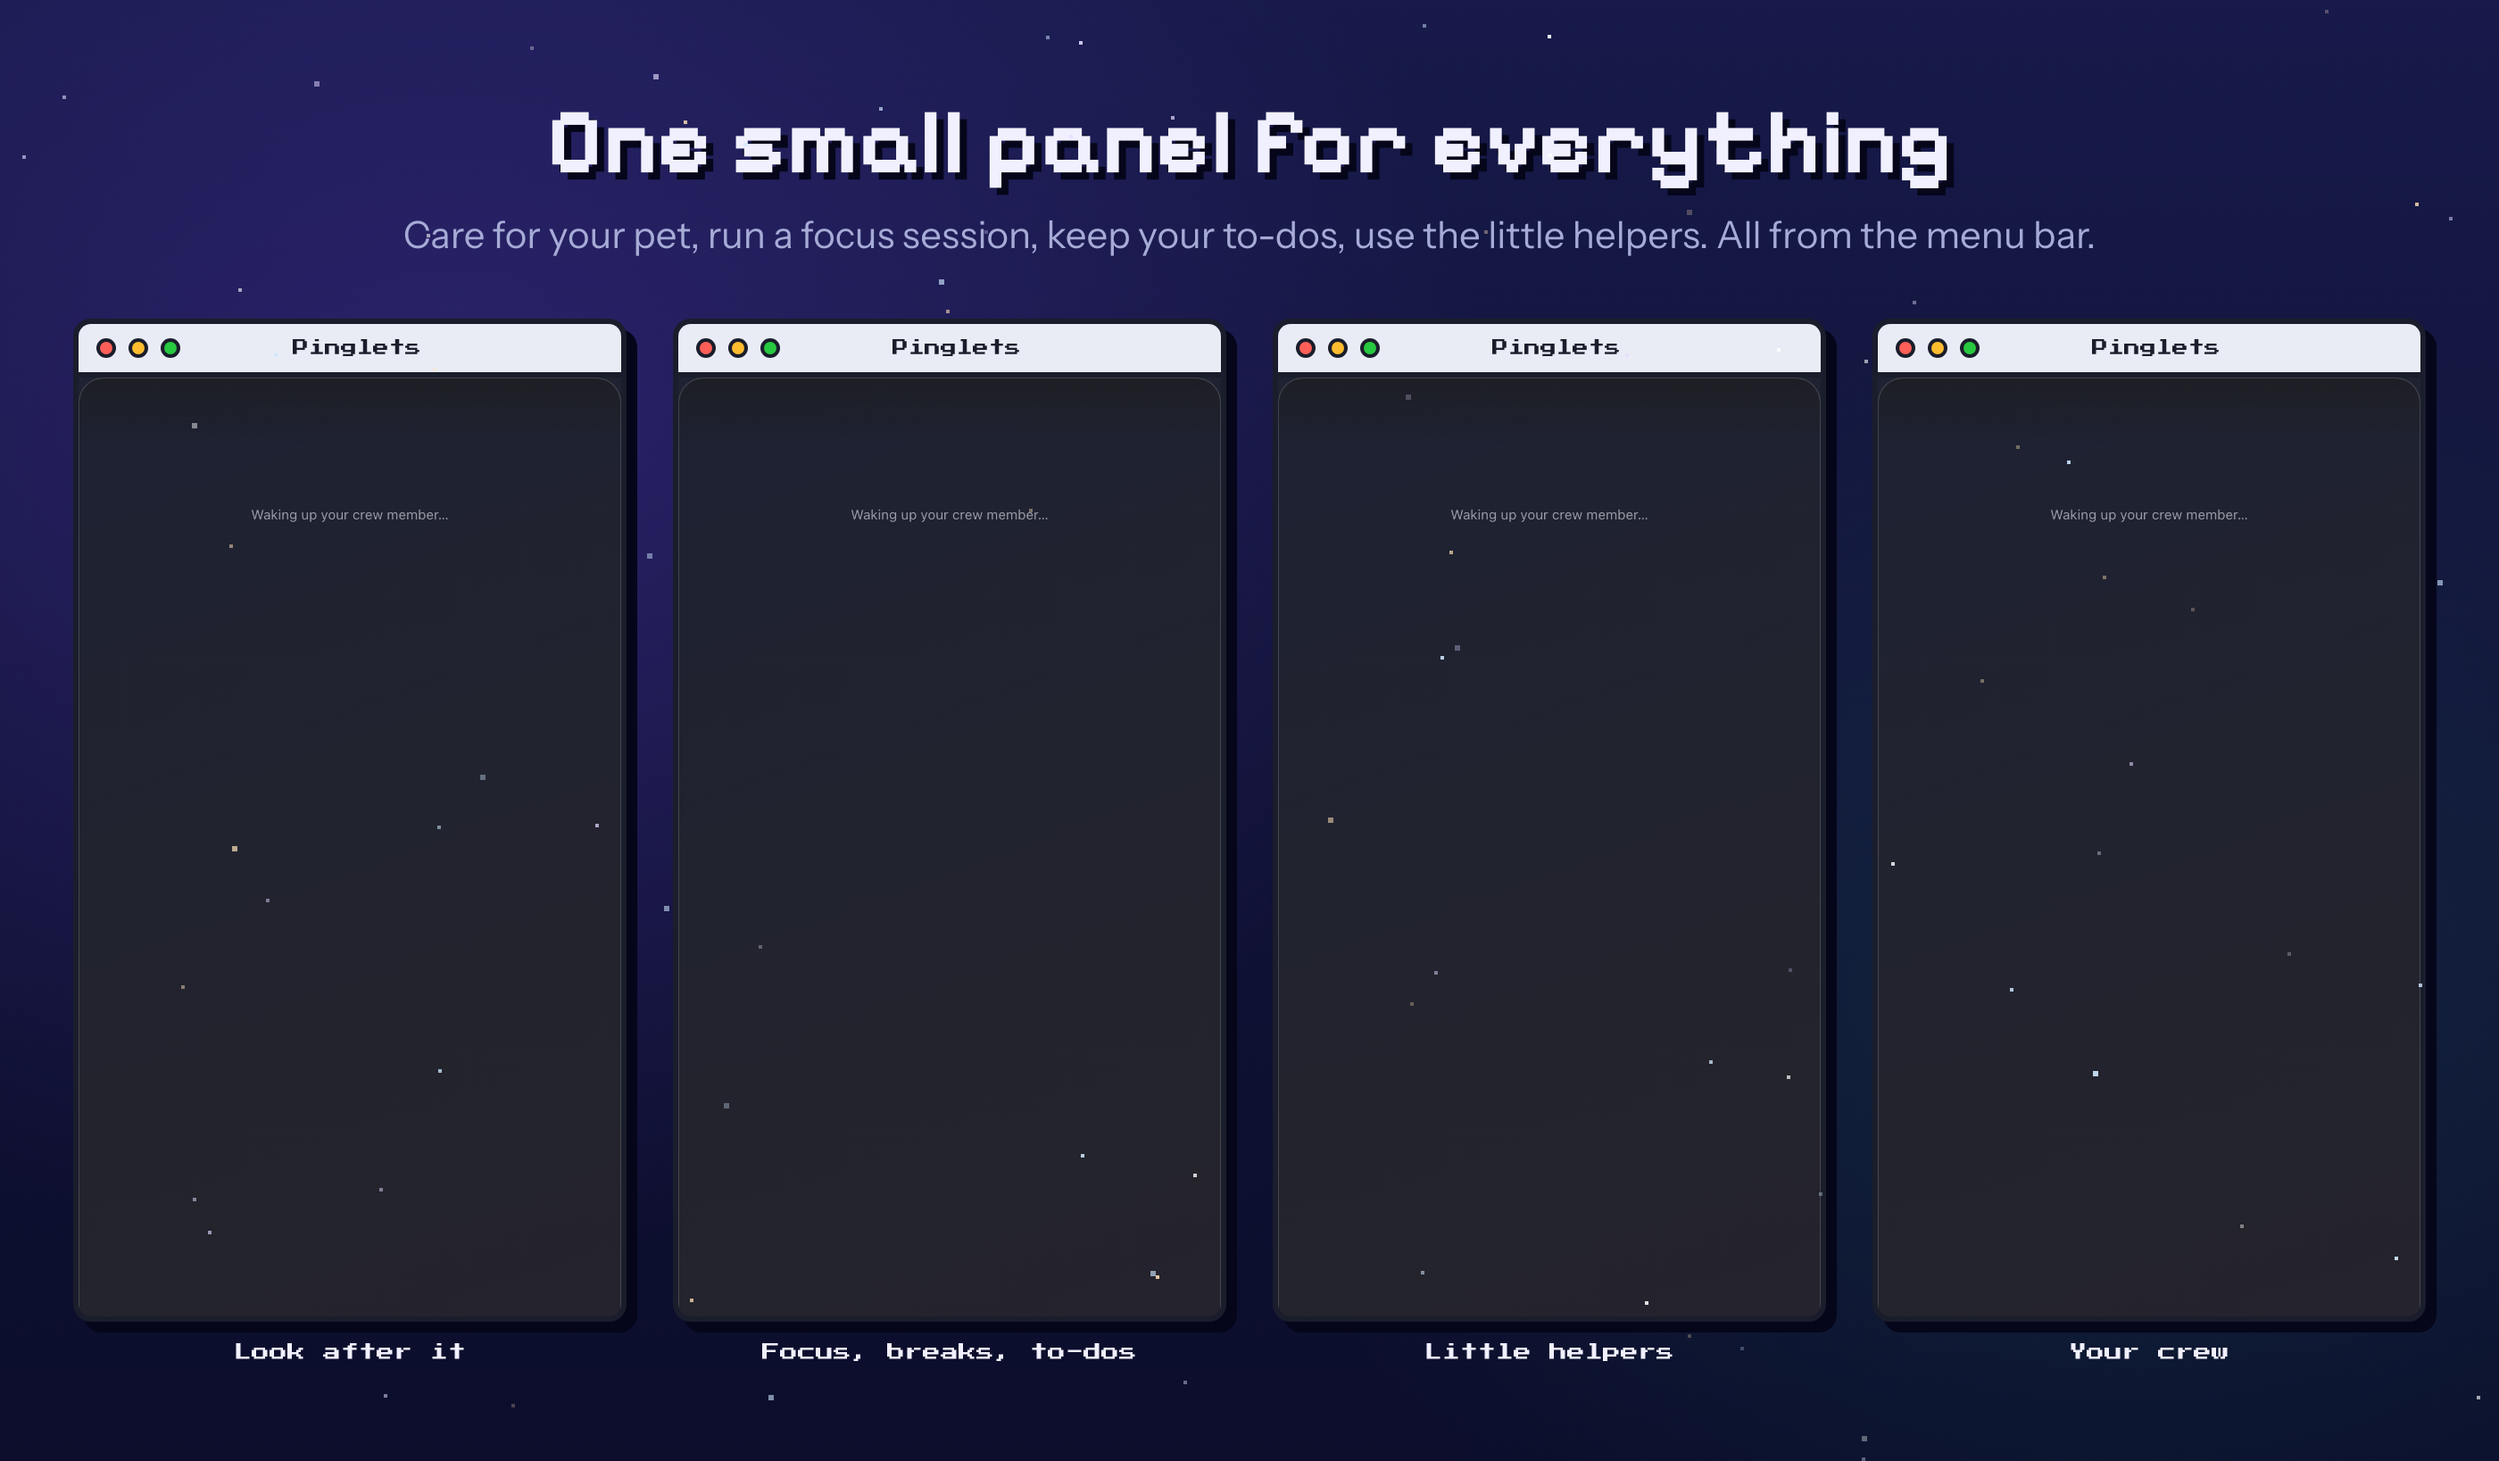
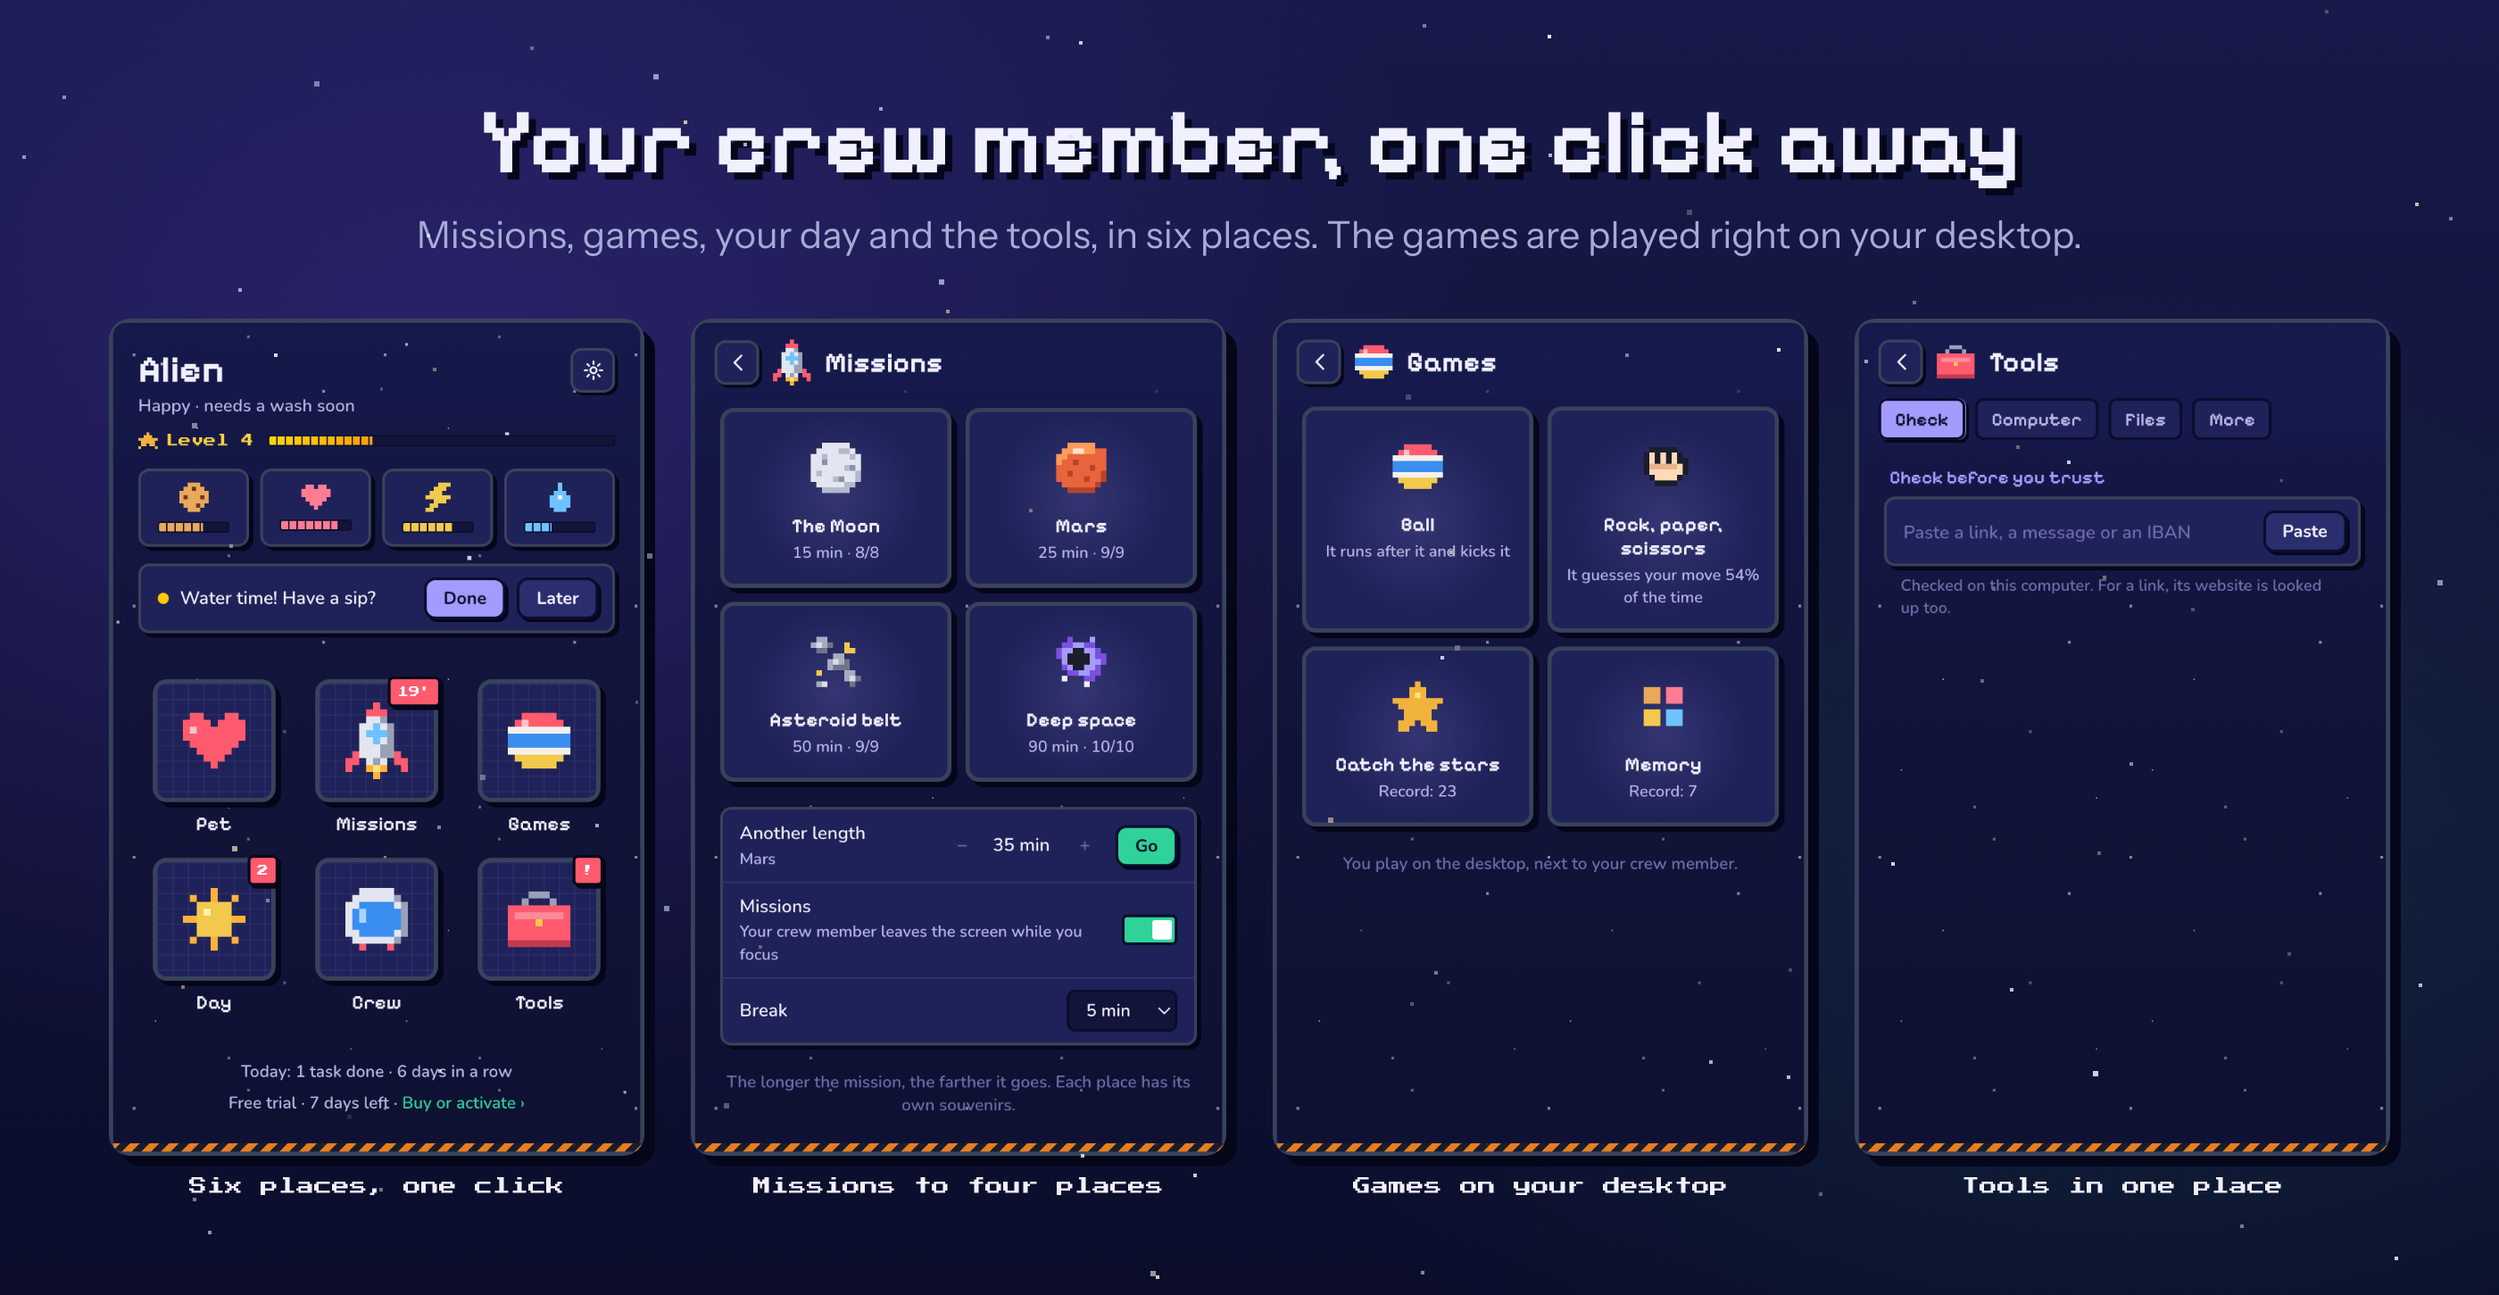
Pinglets 1.1: missions to four places, games on the desktop, tools in one place, the new pop-up

diff --git a/README.md b/README.md
@@ -12,8 +12,8 @@
 
 <p align="center">
   <b>A tiny pixel crew member that lives on your Dock or taskbar.</b><br>
-  It reminds you to take breaks, keeps your to-dos and fixes small annoying things.<br>
-  Give it a snack now and then.
+  It flies on missions while you focus, plays with you right on your desktop and learns your habits.<br>
+  It reminds you to take breaks, keeps your to-dos and fixes small annoying things. Give it a snack now and then.
 </p>
 
 <p align="center">
@@ -26,15 +26,15 @@
 
 ---
 
-## A small app, not a game
+## A small app, and a little game
 
 Pinglets sits at the bottom of your screen and walks along the Dock (or the taskbar) while you work. Click it, drag it, throw
-it, pat it. It is there to help you with the day, and it needs a bit of help from you too.
+it, pat it, play with it. It is there to help you with the day, and it needs a bit of help from you too.
 
 <table>
   <tr>
-    <td align="center" width="33%"><img src="assets/care.gif" alt="A crew member cheering with hearts" width="100%"><br><b>It needs you</b><br>Food, mood, energy and a wash now and then. Leave it alone too long and it gets sad. It never dies.</td>
-    <td align="center" width="33%"><img src="assets/fight.gif" alt="A crew member fighting a purple glitch" width="100%"><br><b>It keeps you on track</b><br>Skip a break or forget a reminder and a glitch walks in. Do the task and the glitch is gone.</td>
+    <td align="center" width="33%"><img src="assets/care.gif" alt="A crew member cheering with hearts" width="100%"><br><b>It needs you</b><br>Food, mood, energy and a wash now and then. Snacks fall from the sky, pats happen on your desktop. It never dies, and it never makes you feel guilty.</td>
+    <td align="center" width="33%"><img src="assets/fight.gif" alt="A crew member fighting a purple glitch" width="100%"><br><b>Strict captain, if you like</b><br>Turn it on and a skipped break or a forgotten reminder brings a glitch. Do the task and the glitch is gone.</td>
     <td align="center" width="33%"><img src="assets/sleep.gif" alt="A crew member asleep" width="100%"><br><b>It rests too</b><br>Quiet at night, quiet while you focus. It saves its questions for later.</td>
   </tr>
 </table>
@@ -43,22 +43,36 @@ it, pat it. It is there to help you with the day, and it needs a bit of help fro
 
 | | |
 |---|---|
-| **Focus missions** | 25 minutes of focus, a short break, repeat. Meanwhile your crew member goes on a mission and comes back with a souvenir: 32 to collect, something new every time. |
+| **Focus missions** | The length picks the place: the Moon (15 min), Mars (25), the asteroid belt (50), deep space (90), or any length. Your crew member flies there and comes back with a souvenir: 44 to collect, each place with its own. Every fourth mission of the day, a longer break; the countdown sits in the menu bar. |
 | **Healthy breaks** | Drink water, check your posture, rest your eyes, stand up. You choose how often. |
 | **Reminders** | "Call the dentist at 15:00", "Vitamins every day at 9". Once, every day, on weekdays or every week. |
-| **To-dos** | With a due time if you like. Late ones turn into glitches. |
+| **To-dos** | With a due time if you like. With Strict captain on, late ones turn into glitches. |
 | **Today's orders** | Three small things a day, for bonus XP. Missing a day costs nothing. |
 
-### Guard
+### Play together
+
+The games are played right on your desktop, next to your crew member, not in a window.
+
+| | |
+|---|---|
+| **Ball** | Throw it: your crew member runs after it and kicks it. |
+| **Rock, paper, scissors** | First to three, in a bubble over its head. It learns your favourite moves. |
+| **Catch the stars** | 30 seconds of falling stars. Move the mouse and it runs to catch them. |
+| **Memory** | It lights a row of pads, you repeat it, one more each round. |
+| **It learns your habits** | When you start and stop, your best hour for focus, when it gets its snack, and its character grows from how you treat it. All on your computer, with a button to make it forget. |
+
+### Tools
+
+Everything useful in one place, out of the pet's way.
 
 | | |
 |---|---|
 | **Check before you trust** | Paste a link, a message or an IBAN. It spots fake banks, couriers and shops, brand-new websites, "Hi mum, this is my new number", gift-card requests and wrong IBANs. Or right-click your crew member: "Check copied text". |
-| **Computer check-up** | Backup on or off, free disk space, battery health. Once a week it tells you if something needs a look. |
+| **Computer check-up** | Firewall, disk encryption, automatic updates, screen lock, app check or antivirus, password at start-up, plus backup, free disk space and battery health. It reads them and changes nothing; "Turn on" opens the right system setting. |
 | **Alerts** | The internet drops (and comes back), a Wi-Fi with no password. During calls it steps aside and stays quiet. |
 | **Passwords** | A strong one that is easy to type, and a check whether yours appeared in stolen data, without ever sending it. |
 
-### Files
+#### Files
 
 Drop files on your crew member (or on its window) and only what fits shows up. New files are saved next to the
 originals, never over them.
@@ -91,7 +105,7 @@ originals, never over them.
 | **Countdown** | Days left to the holidays, a deadline, a birthday. It tells you every morning. |
 
 <p align="center">
-  <img src="assets/panel.png" alt="The Pinglets panel: pet, tasks, helpers and crew" width="100%">
+  <img src="assets/panel.png" alt="The Pinglets pop-up: six places, missions to four destinations, games on the desktop, tools in one place" width="100%">
 </p>
 
 <p align="center">
@@ -109,7 +123,7 @@ Italian.
 |---|---|
 | **Mac** | [Free trial for Mac](https://github.com/mekai-games/pinglets/releases/latest/download/Pinglets.dmg) · macOS 11 or later, Apple silicon or Intel |
 | **Windows (beta)** | [Free trial for Windows](https://github.com/mekai-games/pinglets/releases/latest/download/Pinglets-Setup.exe) · Windows 10 or 11, 64-bit |
-| **License** | Everything works for 7 days. Then [get your license](https://mekaigames.com/pinglets#buy) for 6,99 €, once. One key, up to 3 computers. |
+| **License** | Everything works for 7 days. Then your crew member stays (its care, breaks, to-dos, reminders and the ball keep working), and [a license](https://mekaigames.com/pinglets#buy) for 6,99 €, once, brings back missions, games, tools and the whole crew. One key, up to 3 computers. |
 
 On a Mac, open the `.dmg` and drag Pinglets into Applications. On Windows, run the setup; if Windows says it protected
 your PC, click "More info", then "Run anyway" (the Windows version is new). Pinglets lives in the menu bar or in the tray
@@ -118,7 +132,7 @@ Every version is in [Releases](../../releases).
 
 ## Privacy
 
-Your crew member, your tasks and your files stay on your computer. No account, no ads, no tracking: your license key is
+Your crew member, your tasks, your files and what it learns about your habits stay on your computer. No account, no ads, no tracking: your license key is
 checked with Lemon Squeezy, our reseller, and the link and password checks reach the internet only when you use them. Read the [privacy policy](https://mekaigames.com/pinglets/privacy) and the
 [terms](https://mekaigames.com/pinglets/terms).
 
@@ -141,8 +155,15 @@ or use the menu bar on a Mac and the tray on Windows.
 <details>
 <summary><b>What happens if I ignore it?</b></summary>
 <br>
-It gets hungry, sleepy and a bit sad, and glitches show up for the tasks you skip. It never dies: a snack, a
-pat and a done task bring it back.
+It gets hungry and sleepy, but never below "fine". Turn on Strict captain for the real thing: needs drop all the
+way and glitches show up for the tasks you skip. It never dies either way.
+</details>
+
+<details>
+<summary><b>What happens after the free week?</b></summary>
+<br>
+Your crew member stays: it keeps walking on your Dock, you can look after it and play ball, and breaks, to-dos and
+reminders keep working. Missions, levels, the other games, the tools and the rest of the crew come back with a license.
 </details>
 
 <details>
